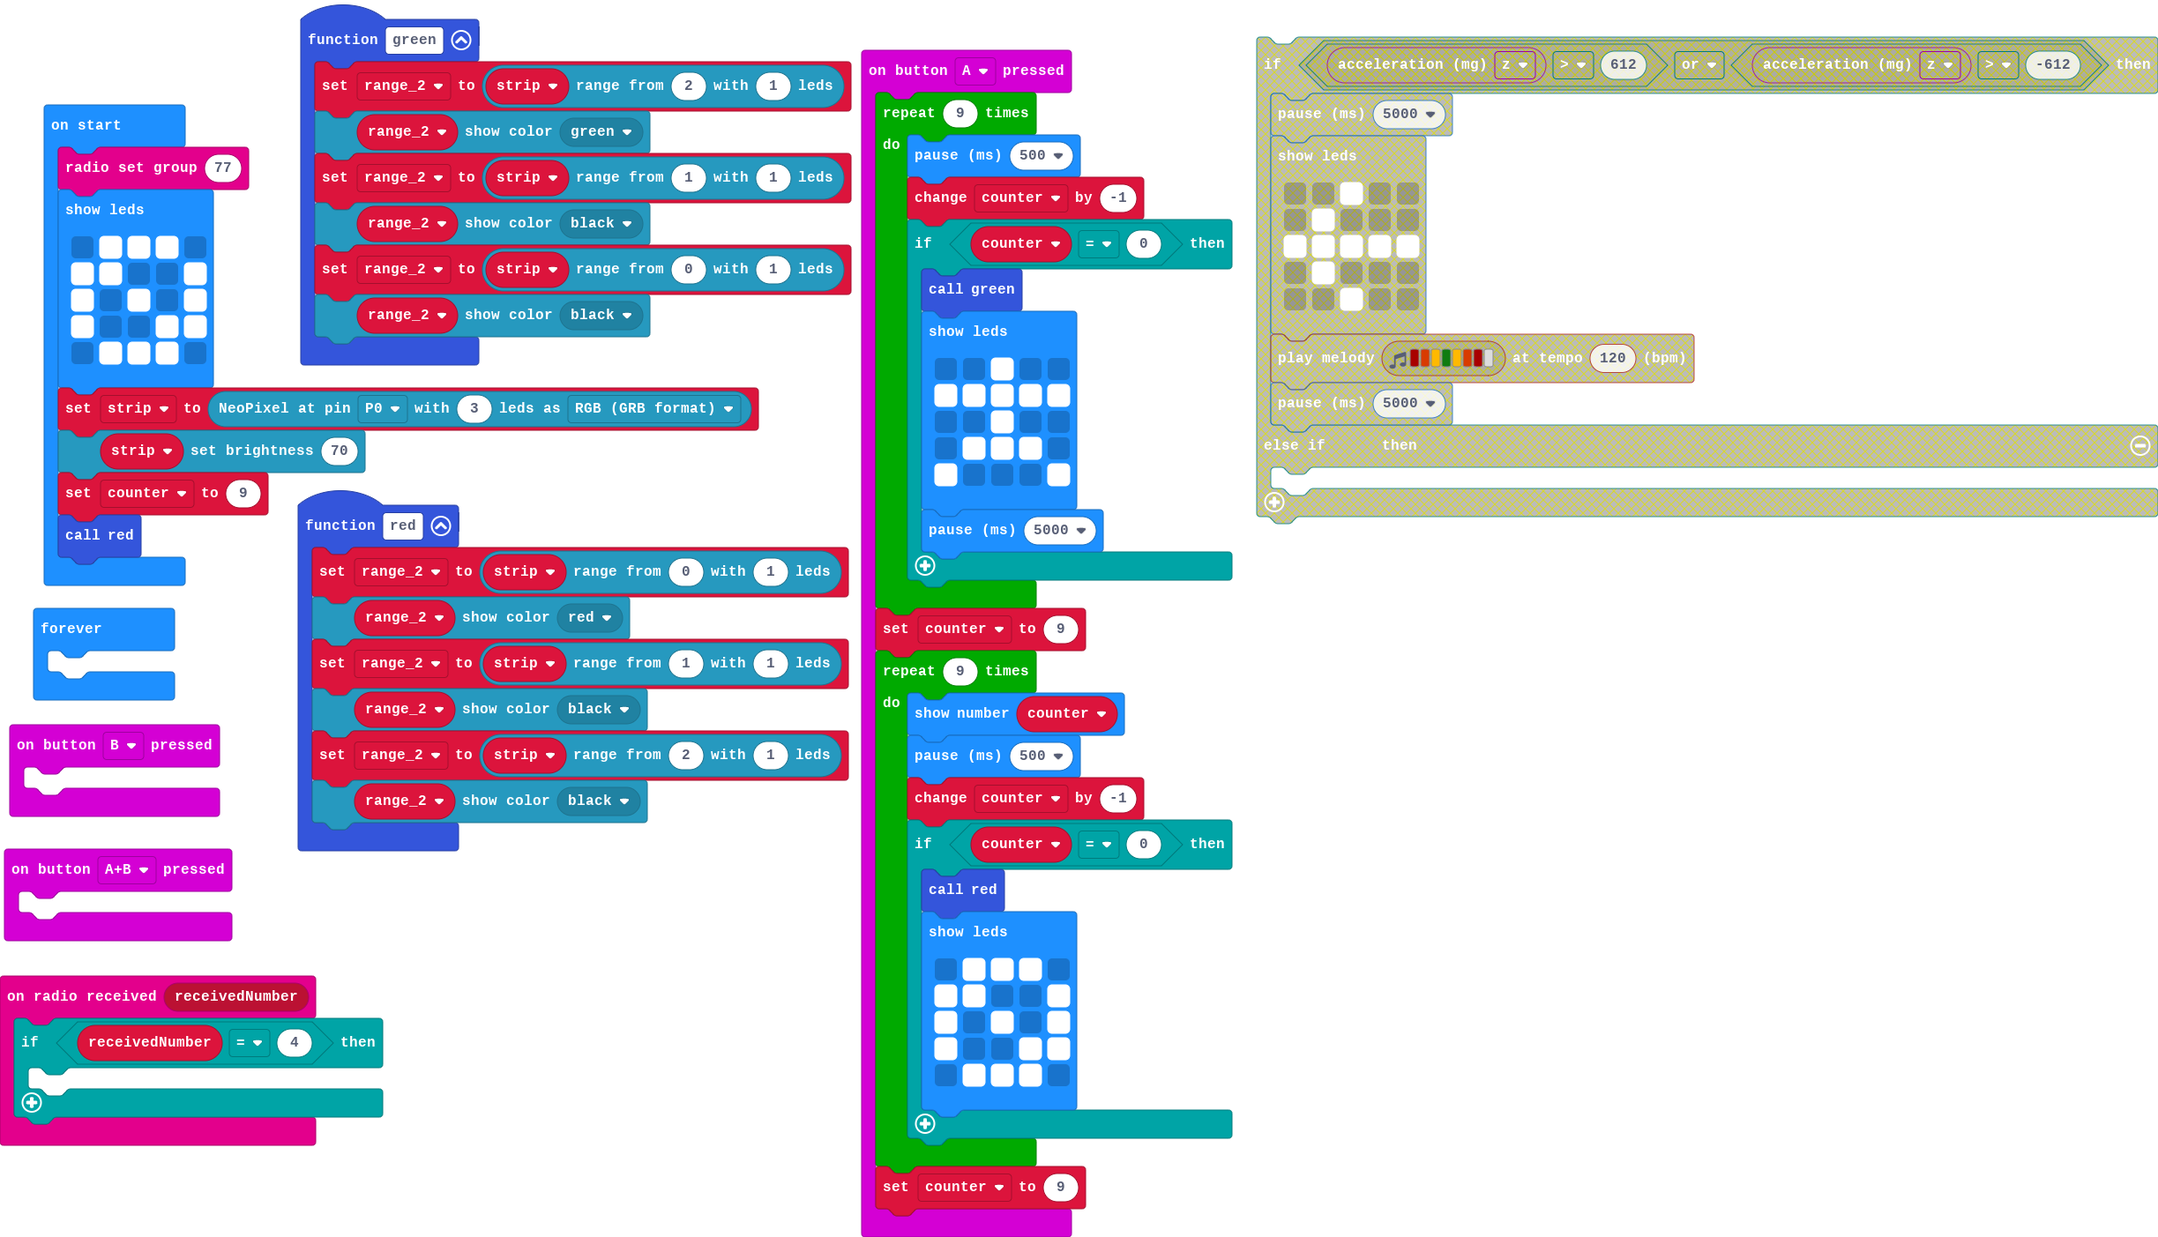
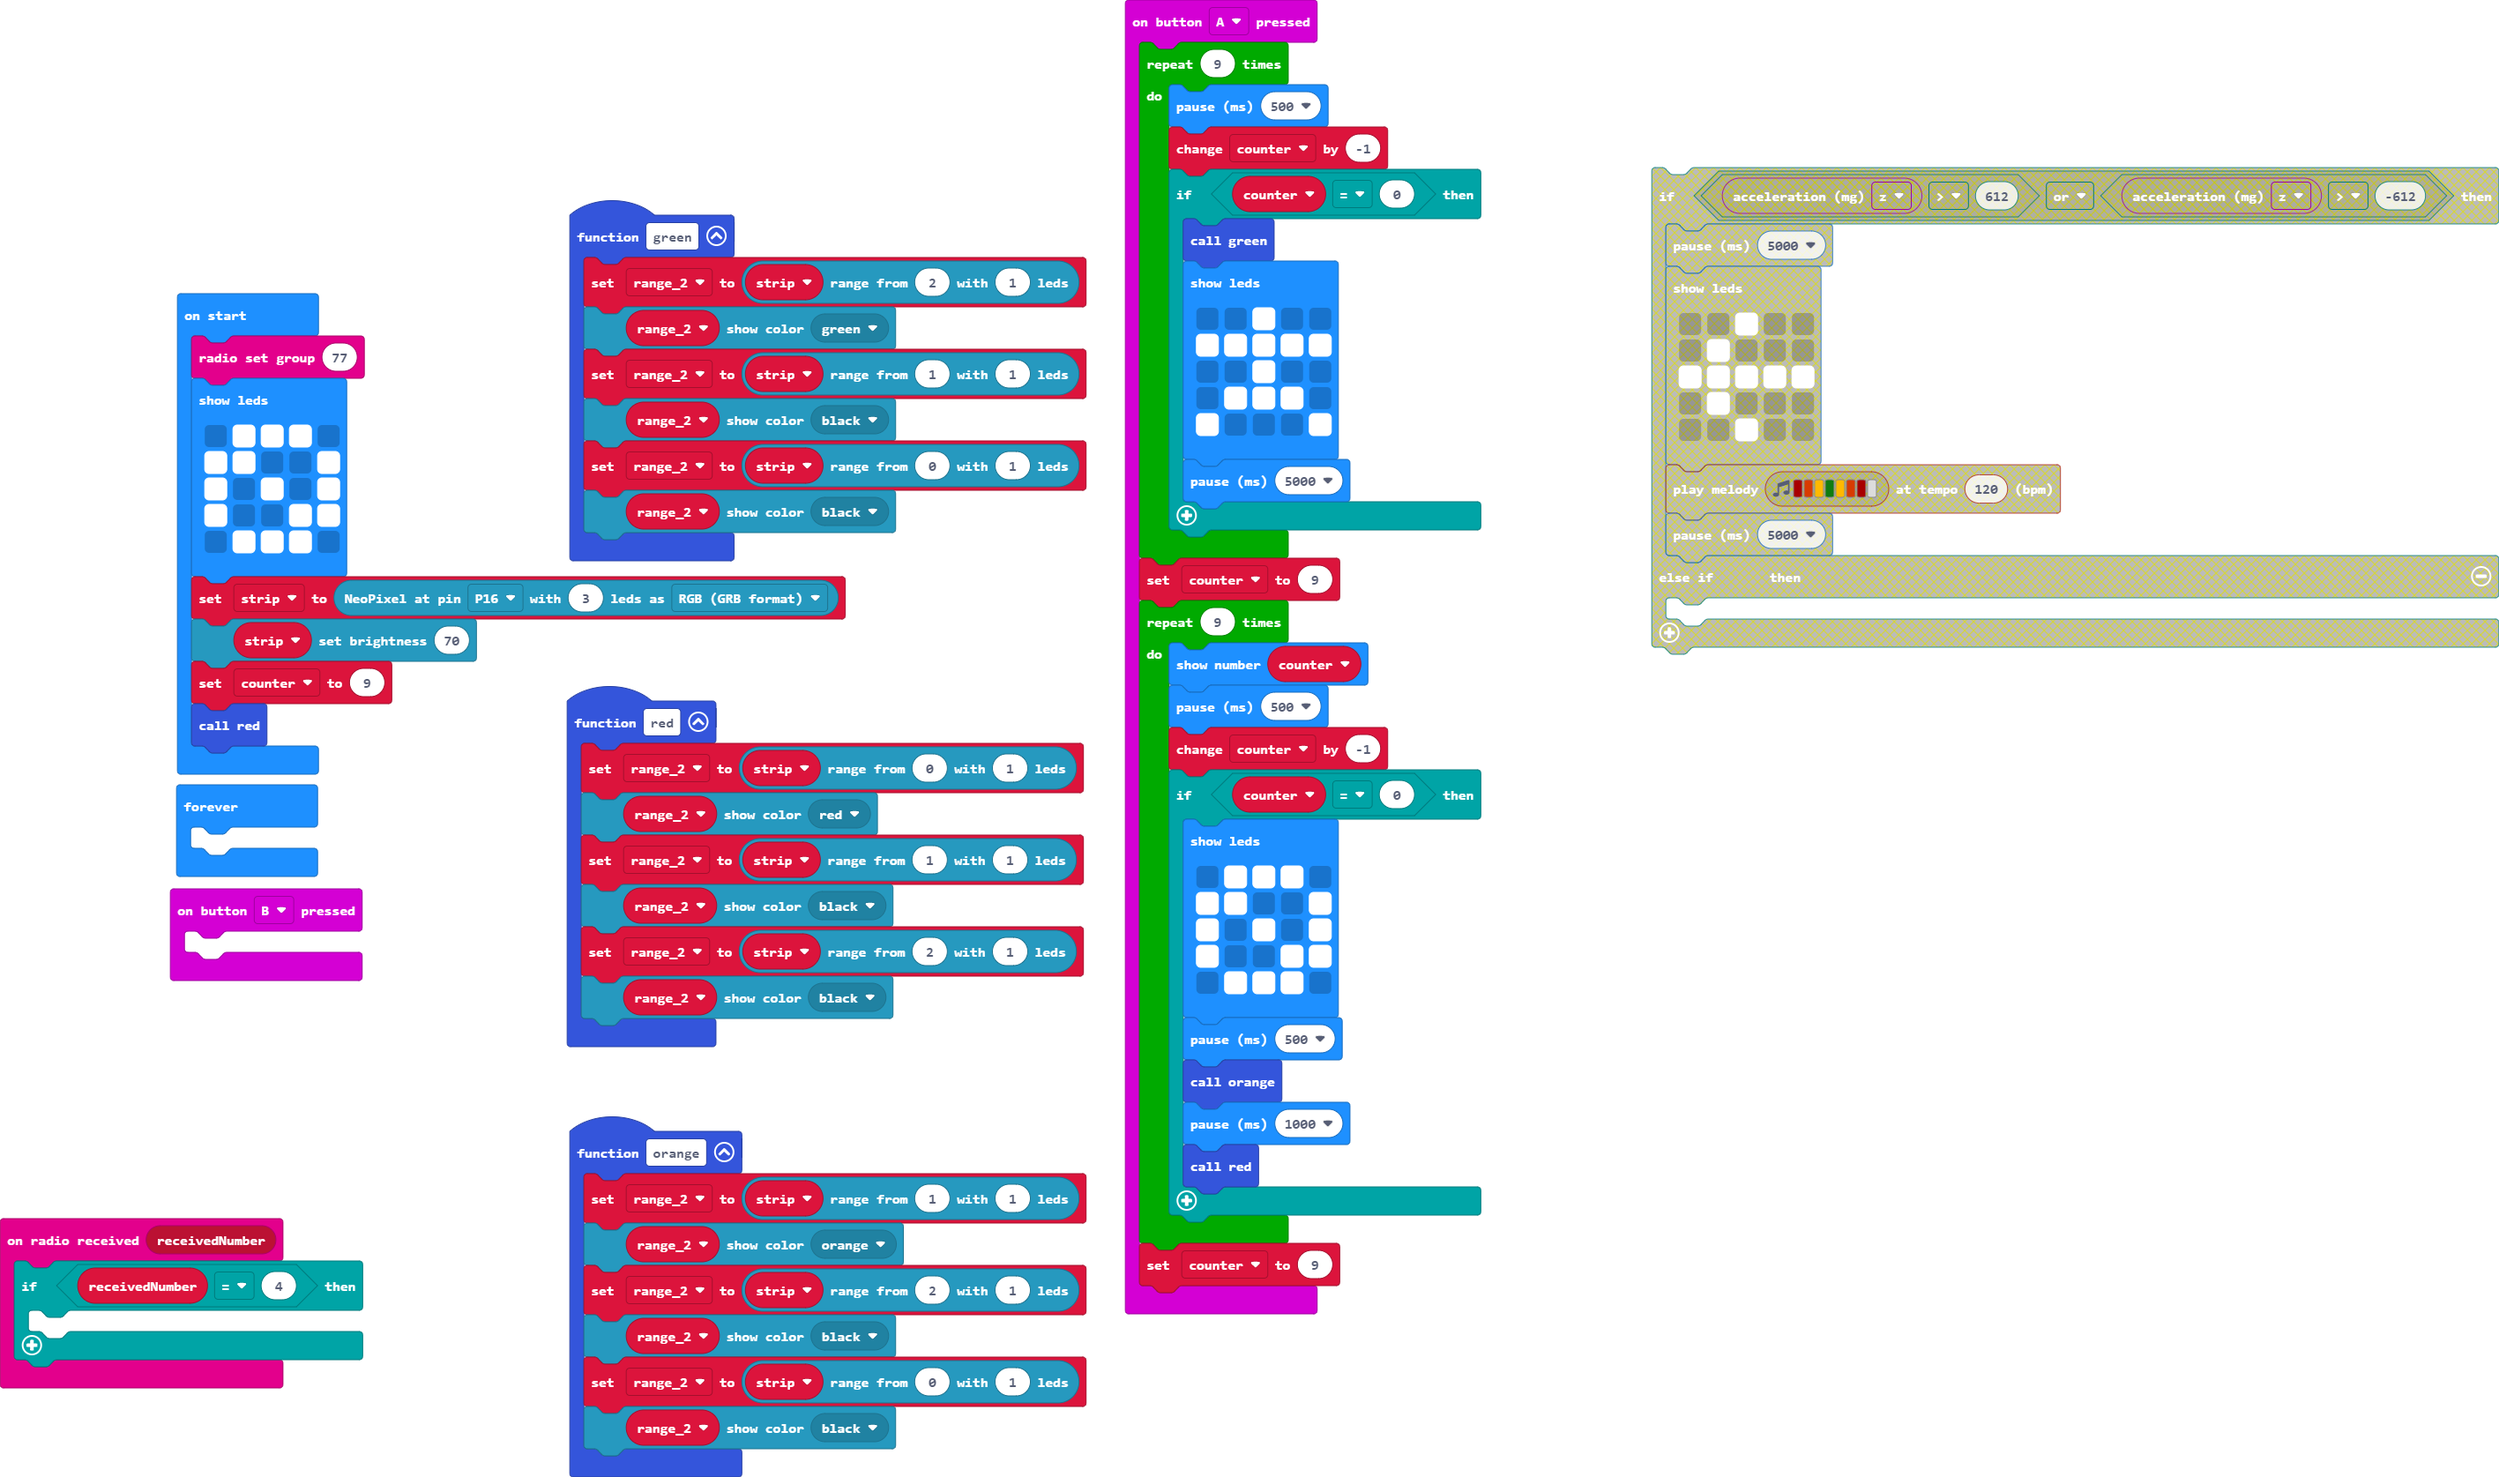
Update main.blocks, main.ts

diff --git a/main.ts b/main.ts
@@ -33,7 +33,6 @@ input.onButtonPressed(Button.A, function () {
         basic.pause(500)
         counter += -1
         if (counter == 0) {
-            red()
             basic.showLeds(`
                 . # # # .
                 # # . . #
@@ -41,16 +40,25 @@ input.onButtonPressed(Button.A, function () {
                 # . . # #
                 . # # # .
                 `)
+            basic.pause(500)
+            orange()
+            basic.pause(1000)
+            red()
         }
     }
     counter = 9
 })
-input.onButtonPressed(Button.AB, function () {
-	
-})
 input.onButtonPressed(Button.B, function () {
 	
 })
+function orange () {
+    range_2 = strip.range(1, 1)
+    range_2.showColor(neopixel.colors(NeoPixelColors.Orange))
+    range_2 = strip.range(2, 1)
+    range_2.showColor(neopixel.colors(NeoPixelColors.Black))
+    range_2 = strip.range(0, 1)
+    range_2.showColor(neopixel.colors(NeoPixelColors.Black))
+}
 function red () {
     range_2 = strip.range(0, 1)
     range_2.showColor(neopixel.colors(NeoPixelColors.Red))
@@ -70,7 +78,7 @@ basic.showLeds(`
     # . . # #
     . # # # .
     `)
-strip = neopixel.create(DigitalPin.P0, 3, NeoPixelMode.RGB)
+strip = neopixel.create(DigitalPin.P16, 3, NeoPixelMode.RGB)
 strip.setBrightness(70)
 counter = 9
 red()
